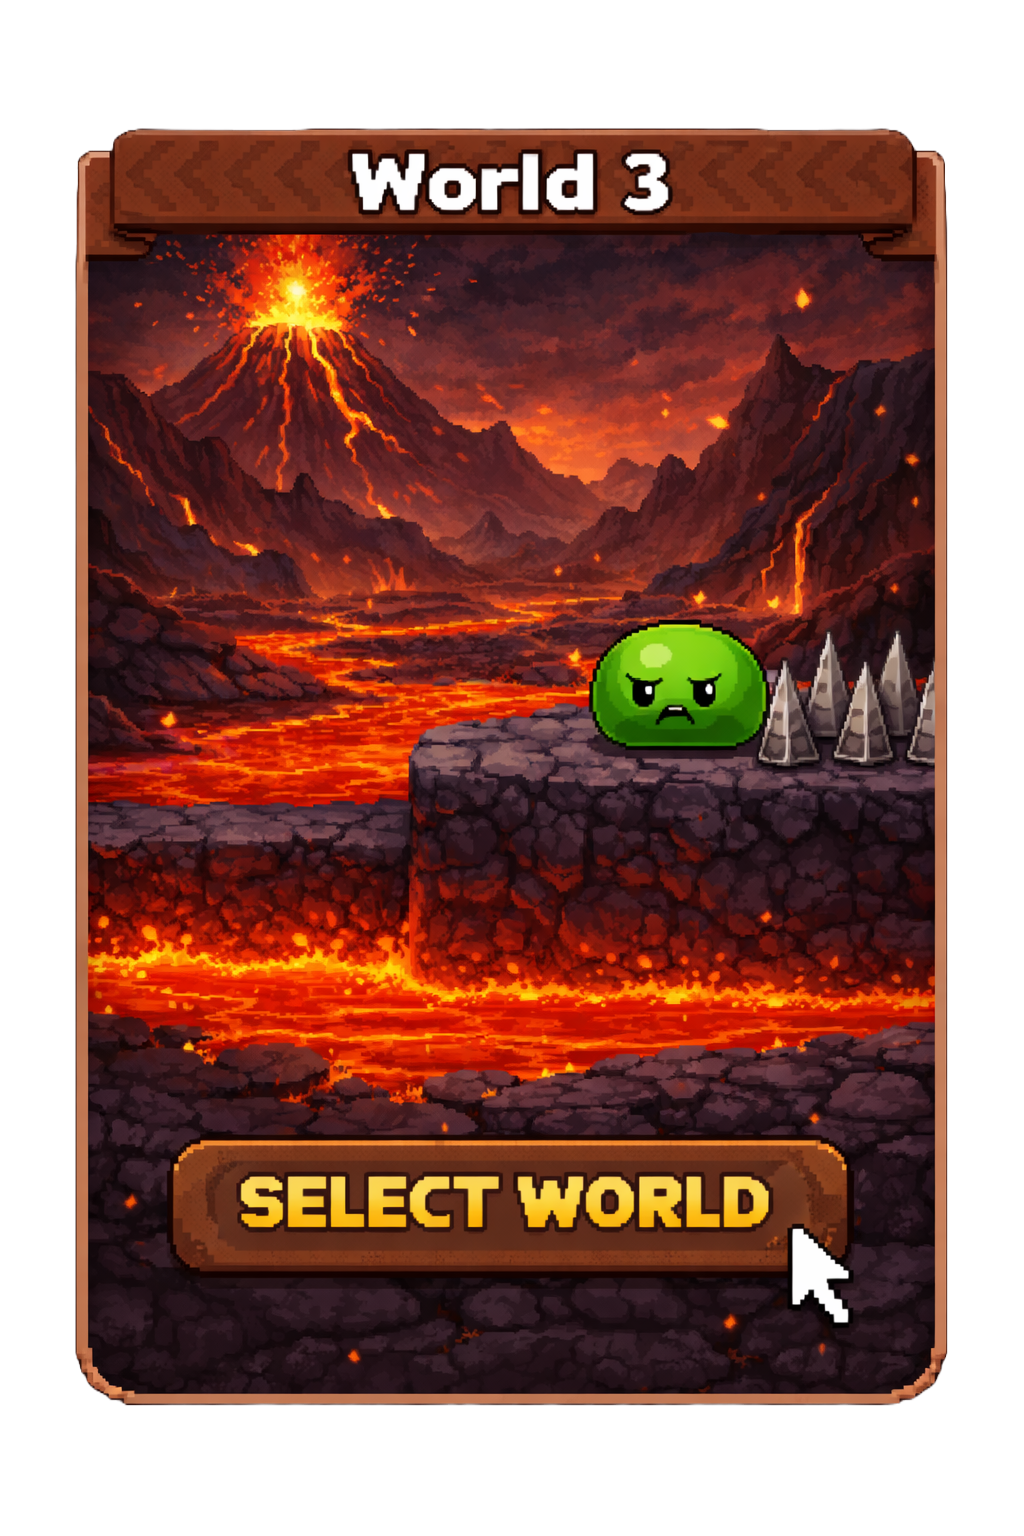
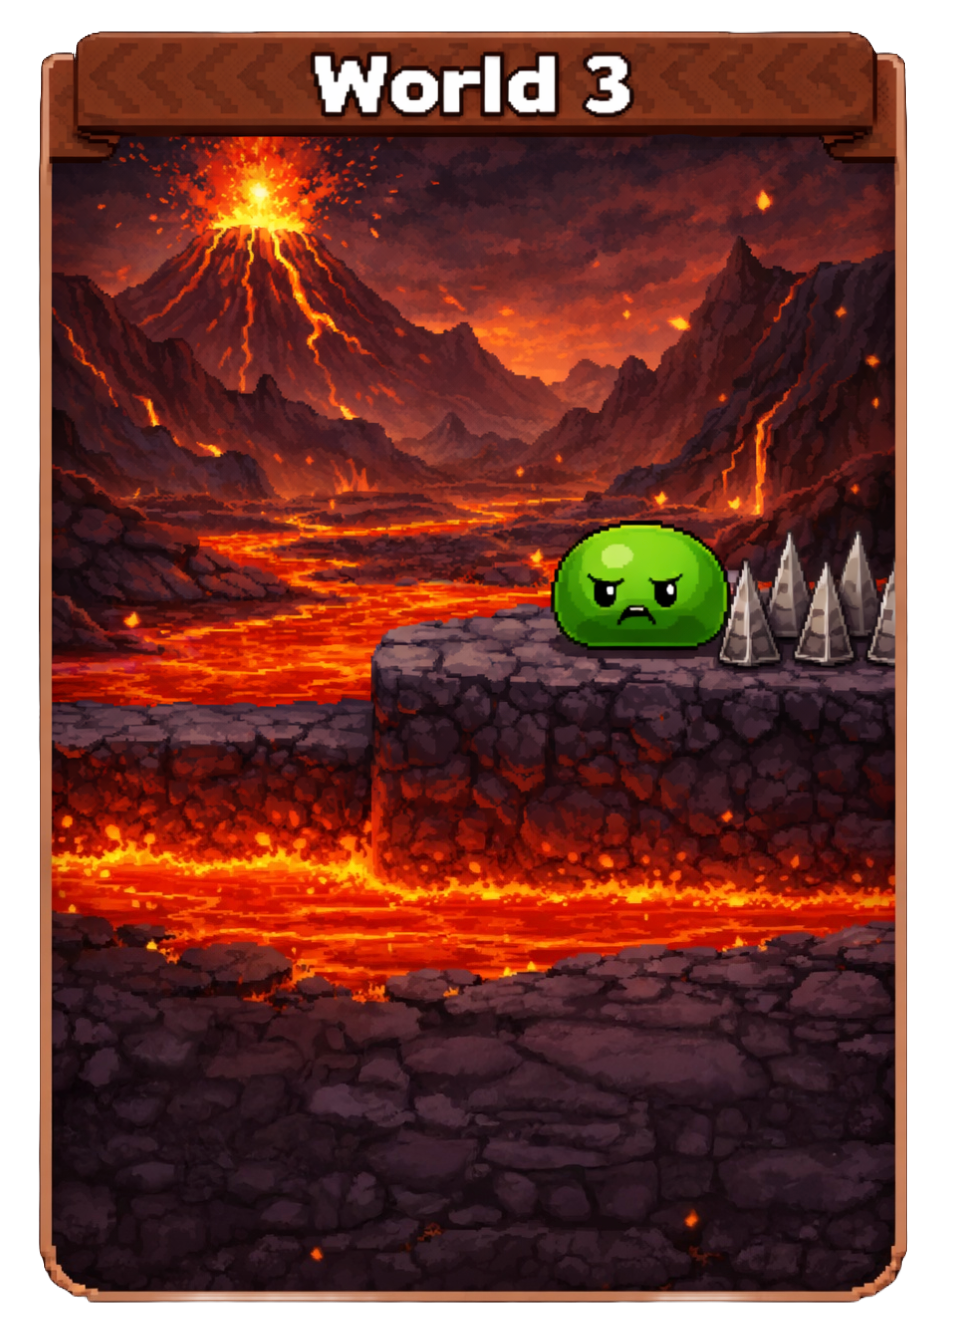
fikset masse små ting og flere nivåer. også riktig rekkefølge for nivåene

diff --git a/Tutorial_Platformer.py b/Tutorial_Platformer.py
@@ -20,12 +20,12 @@ tile_size = 40
 game_over = 0
 main_menu = True
 game_over_time = 0
-level = 1
+level = 3
 start_level = level
 max_levels = 10
 score = 0
 death_counter = 0
-selected_world = 1
+selected_world = 0
 world_select = False
 SPIKE_WIDTH = 16
 SPIKE_HEIGHT = 16
@@ -36,6 +36,8 @@ font = pygame.font.SysFont('Bauhaus 93', 90)
 white = (255, 255, 255)
 red = (255, 0, 0)
 blue = (0, 0, 255)
+yellow = (255, 255, 0)
+
 
 
 
@@ -50,6 +52,7 @@ exit_img = pygame.image.load('img/exit_btn.png')
 world1_img = pygame.transform.scale(pygame.image.load('img/world1.png'), (200, 300))
 world2_img = pygame.transform.scale(pygame.image.load('img/world2.png'), (200, 300))
 world3_img = pygame.transform.scale(pygame.image.load('img/world3.png'), (200, 300))
+tutorial_img = pygame.transform.scale(pygame.image.load('img/tutorial.png'), (300, 200))
 spike_sheet = pygame.image.load("img/spike.png").convert_alpha()
 death_skull = pygame.image.load('img/skull.png')
 
@@ -90,10 +93,16 @@ def reset_level(level):
 
     # Custom spawn locations
     if selected_world == 2:
-        if level == 3:
+        if level == 1:
+            x = screen_width // 2
+            y = 700
+        elif level == 2:
             x = screen_width - 560
             y = 700
-    if selected_world == 3:
+        elif level == 3:
+            x = 80
+            y = 700
+    elif selected_world == 3:
         if level == 2:
             x = screen_width // 2
         if level == 3:
@@ -471,9 +480,10 @@ world = reset_level(level)
 restart_button = Button(screen_width // 2 - 50, screen_height // 2 + 100, restart_img)
 start_button = Button(screen_width // 2 - 350, screen_height // 2 + 100, start_img)
 exit_button = Button(screen_width // 2 + 100, screen_height // 2 + 100, exit_img)
-world1_button = Button(50, screen_height // 2 - 100, world1_img)
-world2_button = Button(300, screen_height // 2 - 100, world2_img)
-world3_button = Button(550, screen_height // 2 - 100, world3_img)
+world1_button = Button(50, screen_height // 2 - 150, world1_img)
+world2_button = Button(300, screen_height // 2 - 150, world2_img)
+world3_button = Button(550, screen_height // 2 - 150, world3_img)
+tutorial_button = Button(screen_width // 2 - 159, 550, tutorial_img)
 death_img = pygame.transform.scale(death_skull, (tile_size, tile_size))
 
 run = True
@@ -499,7 +509,7 @@ while run == True:
             run = False
 
     elif world_select == True:
-        draw_text('Select World', font, blue, (screen_width // 2) - 200, screen_height // 2 - 150)
+        draw_text('Select World', font, yellow, (screen_width // 2) - 200, screen_height // 2 - 250)
         if world1_button.draw():
             selected_world = 1
             world_select = False
@@ -522,6 +532,16 @@ while run == True:
             world = reset_level(level)
         if world3_button.draw():
             selected_world = 3
+            world_select = False
+            timer_running = True
+            start_time = pygame.time.get_ticks()
+            level = start_level
+            game_over = 0
+            score = 0
+            death_counter = 0
+            world = reset_level(level)
+        if tutorial_button.draw():
+            selected_world = 4
             world_select = False
             timer_running = True
             start_time = pygame.time.get_ticks()
@@ -569,6 +589,9 @@ while run == True:
         if game_over == -1: 
             if restart_button.draw():
                 world = reset_level(level)
+                if level == 1:
+                    start_time = pygame.time.get_ticks()
+                    timer_running = True
                 death_counter += 1
                 game_over = 0
                 score = 0

diff --git a/level_editor.py b/level_editor.py
@@ -39,7 +39,7 @@ spike_img4 = spike_img.subsurface(48, 0, 16, 16)
 # Define global variables
 clicked = False
 level = 1
-world_num = 1
+world_num = 2
 
 # Define colors
 white = (255, 255, 255)
